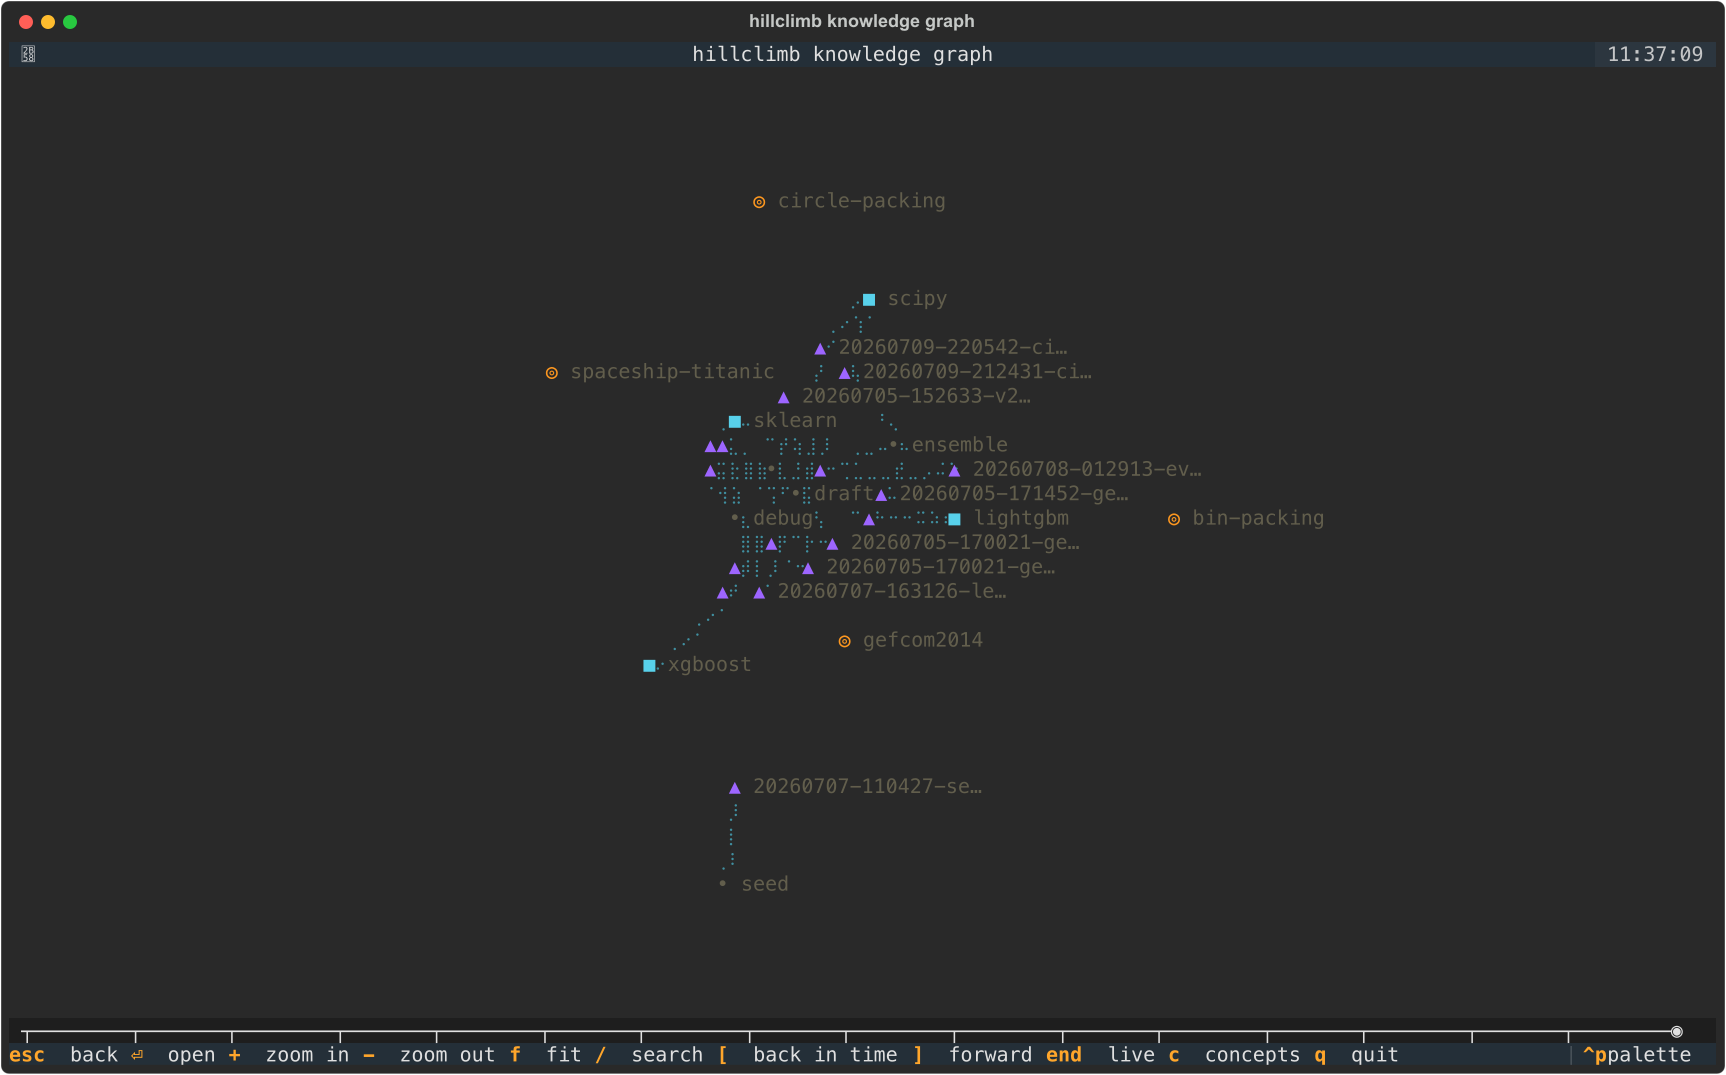
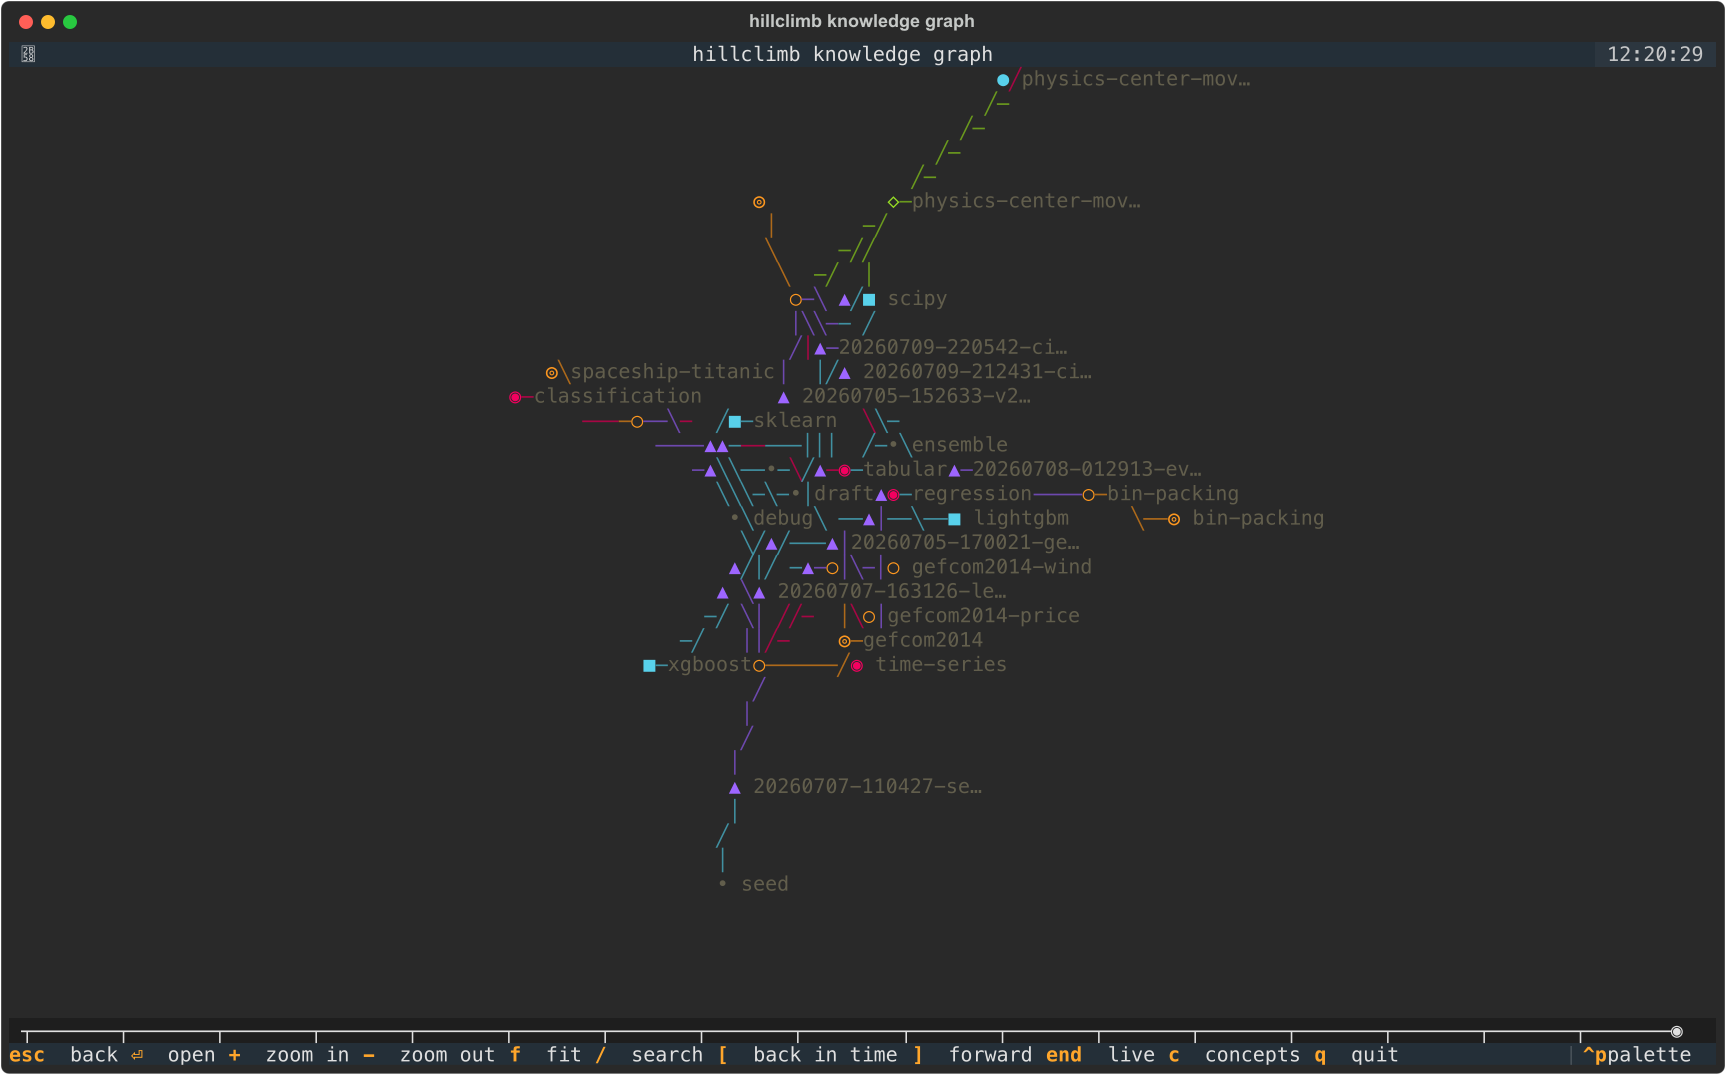
Render graph edges as thin connecting strokes instead of braille dots
Braille glyphs are dot matrices with inter-dot gaps in every font, so edges
read as scattered points rather than lines. Edges now rasterize as
box-drawing strokes — Bresenham walked at cell resolution, each step
stamping one of ─ │ ╱ ╲ by the step's direction — in a line layer beneath
glyphs/labels (crossing edges: last drawn wins the cell). Camera math and
hit-testing stay in 2x4 dot space where dots are square; only rasterization
changed. README screenshot refreshed.

Claude-Session: https://claude.ai/code/session_01GFv4T3jnS5zekXoe3SG8P5

diff --git a/src/hillclimb/graphview.py b/src/hillclimb/graphview.py
@@ -6,12 +6,12 @@ and color by concept. The pure functions at the top carry all geometry,
 rasterization, and hit-testing so they stay testable without driving Textual;
 the widgets below are thin shells in the style of watch.py.
 
-Geometry lives in BRAILLE-DOT SPACE: each terminal cell is 2x4 braille dots,
-and a dot is roughly square on screen — so distances, hit tests, and line
-rasterization done in dots sidestep the 1:2 cell aspect distortion entirely.
-Edges are drawn as braille lines, nodes as single-cell glyphs (a node owns
-its cell's style — one Rich style per cell), labels as plain text with a
-greedy collision mask.
+Geometry lives in DOT SPACE: each terminal cell is 2x4 dots, and a dot is
+roughly square on screen — so distances, camera math, and hit tests done in
+dots sidestep the 1:2 cell aspect distortion entirely. Edges render as thin
+continuous strokes (─ │ ╱ ╲ picked per cell by line direction), nodes as
+single-cell glyphs (a node owns its cell's style — one Rich style per cell),
+labels as plain text with a greedy collision mask.
 """
 
 from __future__ import annotations
@@ -30,9 +30,11 @@ from hillclimb.graph import GraphNode, KnowledgeGraph, graph_at
 
 # --- pure data layer ---
 
-BRAILLE_BASE = 0x2800
-# braille dot bit for [row 0-3][col 0-1] within one cell
-DOT_BITS = ((0x01, 0x08), (0x02, 0x10), (0x04, 0x20), (0x40, 0x80))
+# Edges rasterize as thin box-drawing strokes, one character per cell picked
+# by the line's local direction — continuous connecting lines, not scattered
+# dots (braille) or half-cell slabs (quadrant blocks). Geometry stays in 2x4
+# dot space (square dots); rasterization walks the line at cell resolution.
+LINE_H, LINE_V, LINE_UP, LINE_DOWN = "─", "│", "╱", "╲"
 
 SCALE_MIN = 1.0
 SCALE_MAX = 20000.0
@@ -293,21 +295,20 @@ def fit_camera(bounds: WorldBounds, dots_w: int, dots_h: int) -> Camera:
 
 
 class CellBuffer:
-    """A cells_w x cells_h frame: braille bitmasks for edges, whole-cell
-    characters for glyphs/labels (chars win over dots at flush), one style
-    string per cell."""
+    """A cells_w x cells_h frame: an edge-stroke layer under a whole-cell
+    glyph/label layer (chars win over lines at flush), one style string per
+    cell."""
 
     def __init__(self, cells_w: int, cells_h: int):
         self.w = cells_w
         self.h = cells_h
-        self.dots = [[0] * cells_w for _ in range(cells_h)]
+        self.lines: list[list[str | None]] = [[None] * cells_w for _ in range(cells_h)]
         self.chars: list[list[str | None]] = [[None] * cells_w for _ in range(cells_h)]
         self.styles: list[list[str | None]] = [[None] * cells_w for _ in range(cells_h)]
 
-    def set_dot(self, dx: int, dy: int, style: str) -> None:
-        cx, cy = dx // 2, dy // 4
+    def set_line(self, cx: int, cy: int, char: str, style: str) -> None:
         if 0 <= cx < self.w and 0 <= cy < self.h:
-            self.dots[cy][cx] |= DOT_BITS[dy % 4][dx % 2]
+            self.lines[cy][cx] = char  # crossing edges: last drawn wins the cell
             if self.chars[cy][cx] is None:  # a glyph keeps its own style
                 self.styles[cy][cx] = style
 
@@ -326,10 +327,7 @@ class CellBuffer:
             run: list[str] = []
             run_style: str | None = None
             for x in range(self.w):
-                char = self.chars[y][x]
-                if char is None:
-                    mask = self.dots[y][x]
-                    char = chr(BRAILLE_BASE + mask) if mask else " "
+                char = self.chars[y][x] or self.lines[y][x] or " "
                 style = self.styles[y][x] if char != " " else None
                 if style != run_style and run:
                     segments.append(Segment("".join(run), Style.parse(run_style) if run_style else None))
@@ -370,23 +368,37 @@ def clip_segment(
 
 
 def draw_line(buf: CellBuffer, x0: int, y0: int, x1: int, y1: int, style: str) -> None:
-    """Integer Bresenham in dot coordinates."""
-    dx = abs(x1 - x0)
-    dy = -abs(y1 - y0)
-    sx = 1 if x0 < x1 else -1
-    sy = 1 if y0 < y1 else -1
+    """Rasterize an edge as a thin stroke: Bresenham over CELLS (endpoints
+    arrive in dot coordinates), each step stamping ─ │ ╱ or ╲ by the step's
+    direction so consecutive cells read as one continuous line."""
+    cx, cy = x0 // 2, y0 // 4
+    ex, ey = x1 // 2, y1 // 4
+    dx = abs(ex - cx)
+    dy = -abs(ey - cy)
+    sx = 1 if cx < ex else -1
+    sy = 1 if cy < ey else -1
+    if cx == ex and cy == ey:
+        buf.set_line(cx, cy, LINE_H if abs(x1 - x0) >= abs(y1 - y0) else LINE_V, style)
+        return
     err = dx + dy
-    while True:
-        buf.set_dot(x0, y0, style)
-        if x0 == x1 and y0 == y1:
-            return
+    while not (cx == ex and cy == ey):
         e2 = 2 * err
+        stepped_x = stepped_y = False
         if e2 >= dy:
             err += dy
-            x0 += sx
+            cx += sx
+            stepped_x = True
         if e2 <= dx:
             err += dx
-            y0 += sy
+            cy += sy
+            stepped_y = True
+        if stepped_x and stepped_y:
+            char = LINE_DOWN if sx == sy else LINE_UP  # y grows downward
+        elif stepped_x:
+            char = LINE_H
+        else:
+            char = LINE_V
+        buf.set_line(cx, cy, char, style)
 
 
 def concept_color(concept: str) -> str:
@@ -417,7 +429,7 @@ def render_frame(
     hovered: str | None = None,
     color_by: str = "type",
 ) -> tuple[list[list[Segment]], list[PlacedNode]]:
-    """Rasterize one frame. Z-order: edge dots < node glyphs < labels <
+    """Rasterize one frame. Z-order: edge strokes < node glyphs < labels <
     selection ring. Returns the rows plus the on-screen node positions
     (in dots) that hit-testing consumes."""
     buf = CellBuffer(cells_w, cells_h)

diff --git a/tests/test_graphview.py b/tests/test_graphview.py
@@ -77,16 +77,30 @@ class TestCamera:
 
 
 class TestRaster:
-    def test_draw_line_horizontal_braille(self):
+    def test_draw_line_horizontal_stroke(self):
         buf = CellBuffer(4, 2)
-        draw_line(buf, 0, 0, 3, 0, "cyan")
-        # top row of dots across two cells: bits 0x01|0x08 = 0x09
-        assert buf.dots[0][0] == 0x09
-        assert buf.dots[0][1] == 0x09
+        draw_line(buf, 0, 0, 7, 0, "cyan")  # dots 0..7 -> cells 0..3
         rows = buf.to_segments()
         text = "".join(seg.text for seg in rows[0])
-        assert text[0] == chr(0x2800 + 0x09)
+        assert text[1:4] == "───"
         assert len(text) == 4
+
+    def test_draw_line_vertical_and_diagonal_strokes(self):
+        buf = CellBuffer(4, 4)
+        draw_line(buf, 0, 0, 0, 15, "cyan")  # dots rows 0..15 -> cells 0..3
+        column = [buf.lines[y][0] for y in range(1, 4)]
+        assert column == ["│", "│", "│"]
+        buf2 = CellBuffer(4, 4)
+        draw_line(buf2, 0, 0, 7, 15, "cyan")  # down-right diagonal
+        assert "╲" in {buf2.lines[y][x] for y in range(4) for x in range(4)} - {None}
+        buf3 = CellBuffer(4, 4)
+        draw_line(buf3, 0, 15, 7, 0, "cyan")  # up-right diagonal
+        assert "╱" in {buf3.lines[y][x] for y in range(4) for x in range(4)} - {None}
+
+    def test_same_cell_edge_stub(self):
+        buf = CellBuffer(2, 2)
+        draw_line(buf, 0, 0, 1, 0, "cyan")  # both endpoints inside cell (0,0)
+        assert buf.lines[0][0] == "─"
 
     def test_rows_are_exact_width(self):
         buf = CellBuffer(7, 3)
@@ -95,12 +109,12 @@ class TestRaster:
         for row in buf.to_segments():
             assert sum(len(seg.text) for seg in row) == 7
 
-    def test_glyph_wins_over_dots(self):
+    def test_glyph_wins_over_edges(self):
         buf = CellBuffer(2, 1)
         draw_line(buf, 0, 0, 3, 0, "dim blue")
-        buf.set_char(0, 0, "●", "yellow")
+        buf.set_char(1, 0, "●", "yellow")
         text = "".join(seg.text for seg in buf.to_segments()[0])
-        assert text[0] == "●"
+        assert text[1] == "●"
 
     def test_clip_segment(self):
         assert clip_segment(-5, -5, -1, -1, 100, 100) is None
